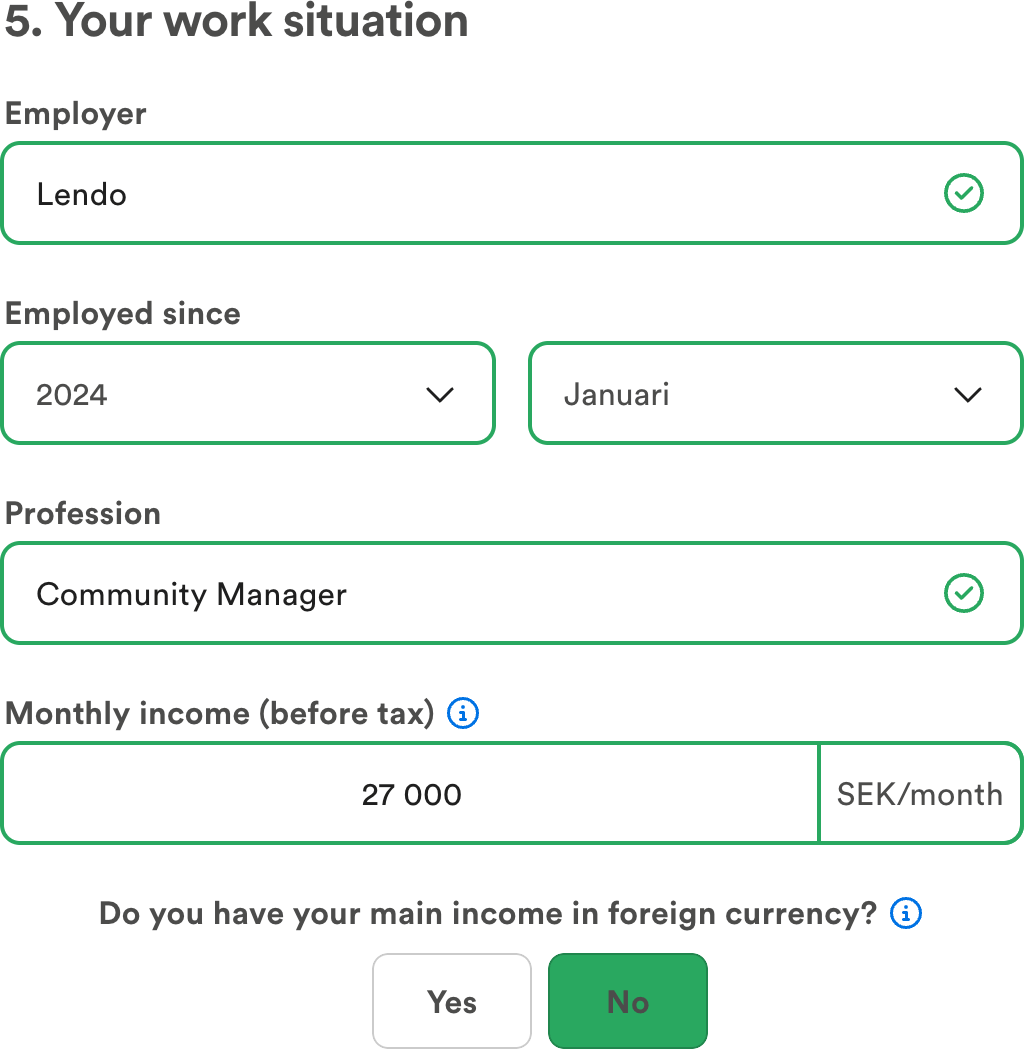
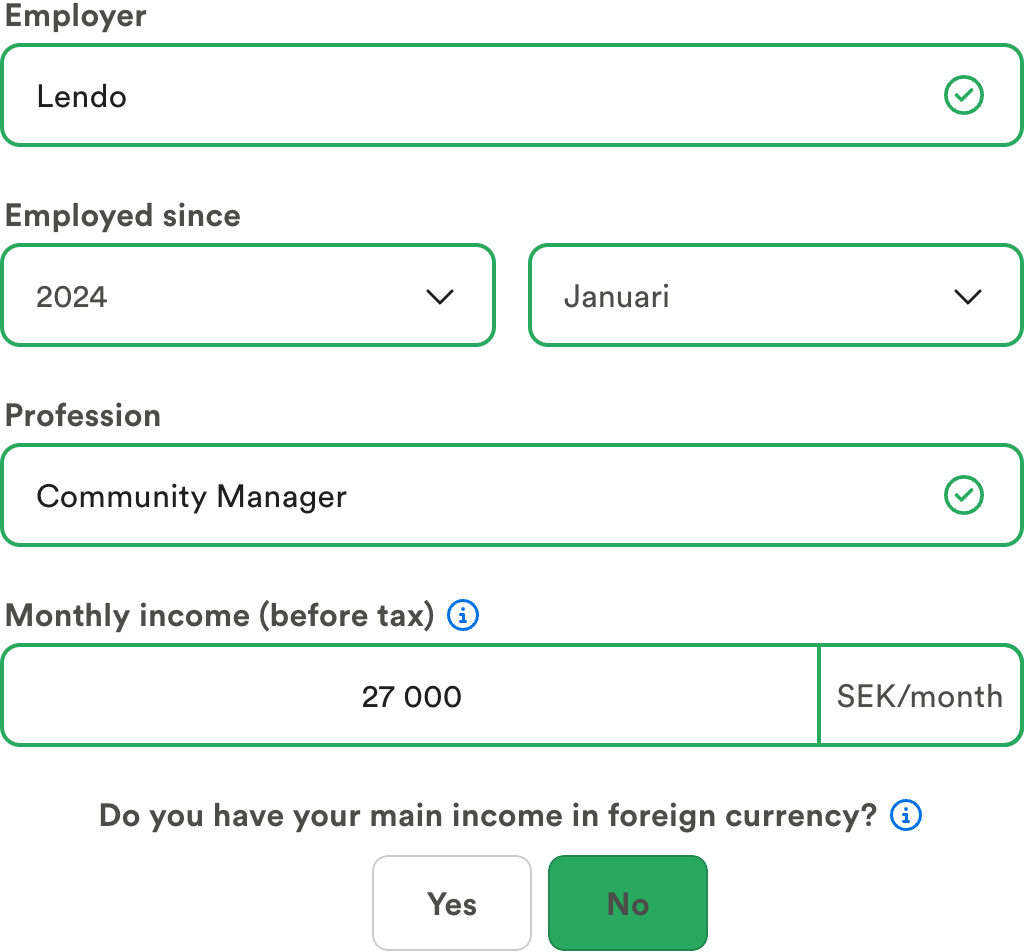
fix: removed titles from images as they have harcoded numbers which need to change depending on the decisions made by the user

Changed region(s): [[0.0, 0.0, 1.0, 0.9139], [0.5938, 0.9443, 0.6562, 0.9748], [0.4062, 0.9443, 0.4688, 0.9748]]

diff --git a/src/steps/Step5.tsx b/src/steps/Step5.tsx
@@ -2,18 +2,25 @@
 import Image from "assets/5.png";
 import { useNavigation } from "state/NavigationContext";
 
+/**
+ * This step can go to different steps if the applicant has a co-applicant.
+ */
 export default function Step5() {
   // Global state
-  const { setStep } = useNavigation();
+  const { setStep, hasCoAplicant } = useNavigation();
+
+  // Properties
+  const nextStep: number = hasCoAplicant ? 6 : 7;
 
   return (
     <div className="step">
+      <h3>Your work situation</h3>
       <img
         className="mock-screenshot"
         src={Image}
         alt="Mock of the real inferface found on Lendo.se"
       />
-      <button onClick={() => setStep(6)}>Next ➡</button>
+      <button onClick={() => setStep(nextStep)}>Next ➡</button>
     </div>
   );
 }

diff --git a/src/steps/Step3.tsx b/src/steps/Step3.tsx
@@ -2,15 +2,19 @@
 import Image from "assets/3.png";
 import { useNavigation } from "state/NavigationContext";
 
+/**
+ * This step decides the formulary lenght based if the applicant has a co-applicant.
+ */
 export default function Step3() {
   // Global state
   const { setStep, hasCoAplicant, setHasCoAplicant } = useNavigation();
 
   // Properties
-  const nextStep = hasCoAplicant ? 4 : 5;
+  const nextStep: number = hasCoAplicant ? 4 : 5;
 
   return (
     <div className="step">
+      <h3>Your personal data</h3>
       <img
         className="mock-screenshot"
         src={Image}

diff --git a/src/steps/Step6.tsx b/src/steps/Step6.tsx
@@ -2,12 +2,16 @@
 import Image from "assets/6.png";
 import { useNavigation } from "state/NavigationContext";
 
+/**
+ * This step is skipped if the applicant does not have a co-applicant.
+ */
 export default function Step6() {
   // Global state
   const { setStep } = useNavigation();
 
   return (
     <div className="step">
+      <h3>Co-applicant's work situation</h3>
       <img
         className="mock-screenshot"
         src={Image}

diff --git a/src/steps/Step4.tsx b/src/steps/Step4.tsx
@@ -2,12 +2,16 @@
 import Image from "assets/4.png";
 import { useNavigation } from "state/NavigationContext";
 
+/**
+ * This step is skipped if the applicant does not have a co-applicant.
+ */
 export default function Step4() {
   // Global state
   const { setStep } = useNavigation();
 
   return (
     <div className="step">
+      <h3>Co=applicant's personal data</h3>
       <img
         className="mock-screenshot"
         src={Image}

diff --git a/src/steps/Step10.tsx b/src/steps/Step10.tsx
@@ -4,6 +4,7 @@ import Image from "assets/10.png";
 export default function Step10() {
   return (
     <div className="step">
+      <h3>Summary</h3>
       <img
         className="mock-screenshot"
         src={Image}

diff --git a/src/steps/Step9.tsx b/src/steps/Step9.tsx
@@ -8,6 +8,7 @@ export default function Step9() {
 
   return (
     <div className="step">
+      <h3>Other loan and credits</h3>
       <img
         className="mock-screenshot"
         src={Image}

diff --git a/src/steps/Step7.tsx b/src/steps/Step7.tsx
@@ -8,6 +8,7 @@ export default function Step7() {
 
   return (
     <div className="step">
+      <h3>About the household</h3>
       <img
         className="mock-screenshot"
         src={Image}

diff --git a/src/steps/Step1.tsx b/src/steps/Step1.tsx
@@ -8,6 +8,7 @@ export default function Step1() {
 
   return (
     <div className="step">
+      <h3>About the loan</h3>
       <img
         className="mock-screenshot"
         src={Image}

diff --git a/src/steps/Step2.tsx b/src/steps/Step2.tsx
@@ -8,6 +8,7 @@ export default function Step2() {
 
   return (
     <div className="step">
+      <h3>About the home</h3>
       <img
         className="mock-screenshot"
         src={Image}

diff --git a/src/steps/Step8.tsx b/src/steps/Step8.tsx
@@ -8,6 +8,7 @@ export default function Step8() {
 
   return (
     <div className="step">
+      <h3>Cars and homes</h3>
       <img
         className="mock-screenshot"
         src={Image}
